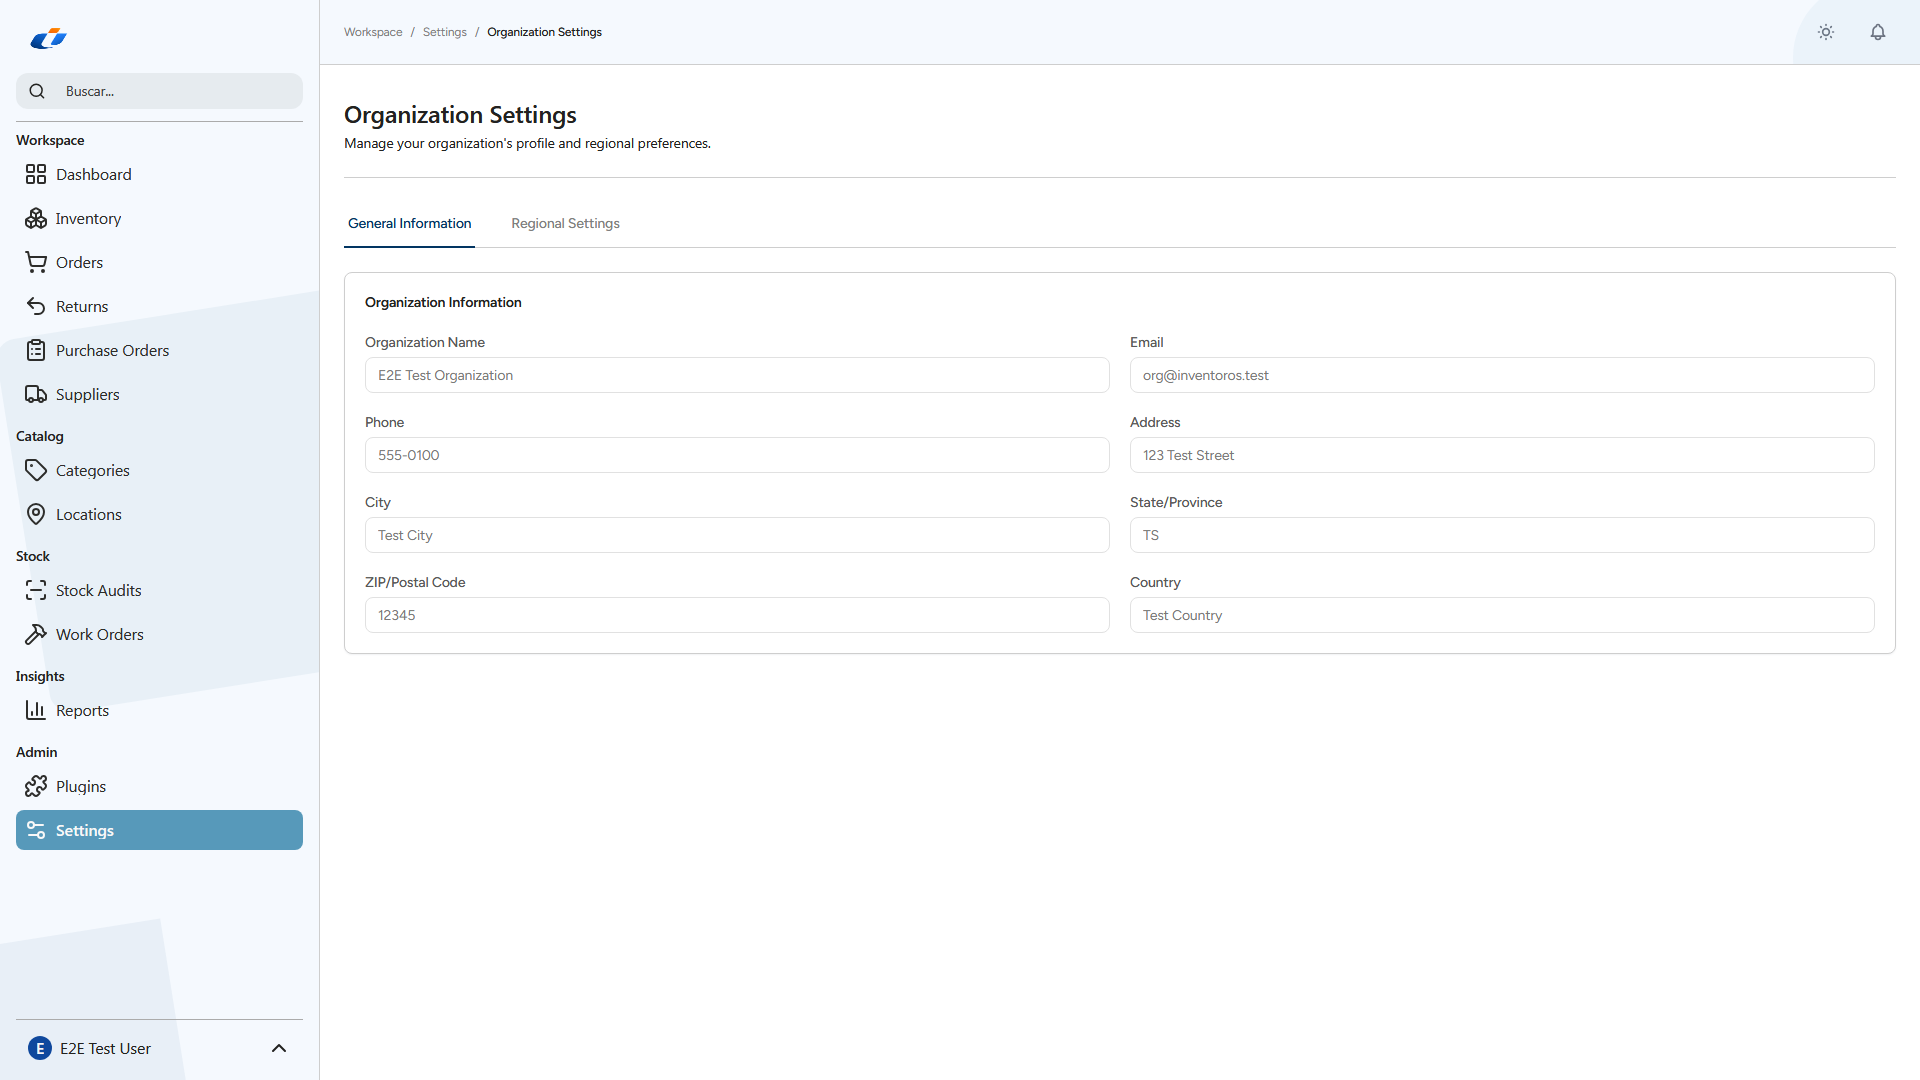
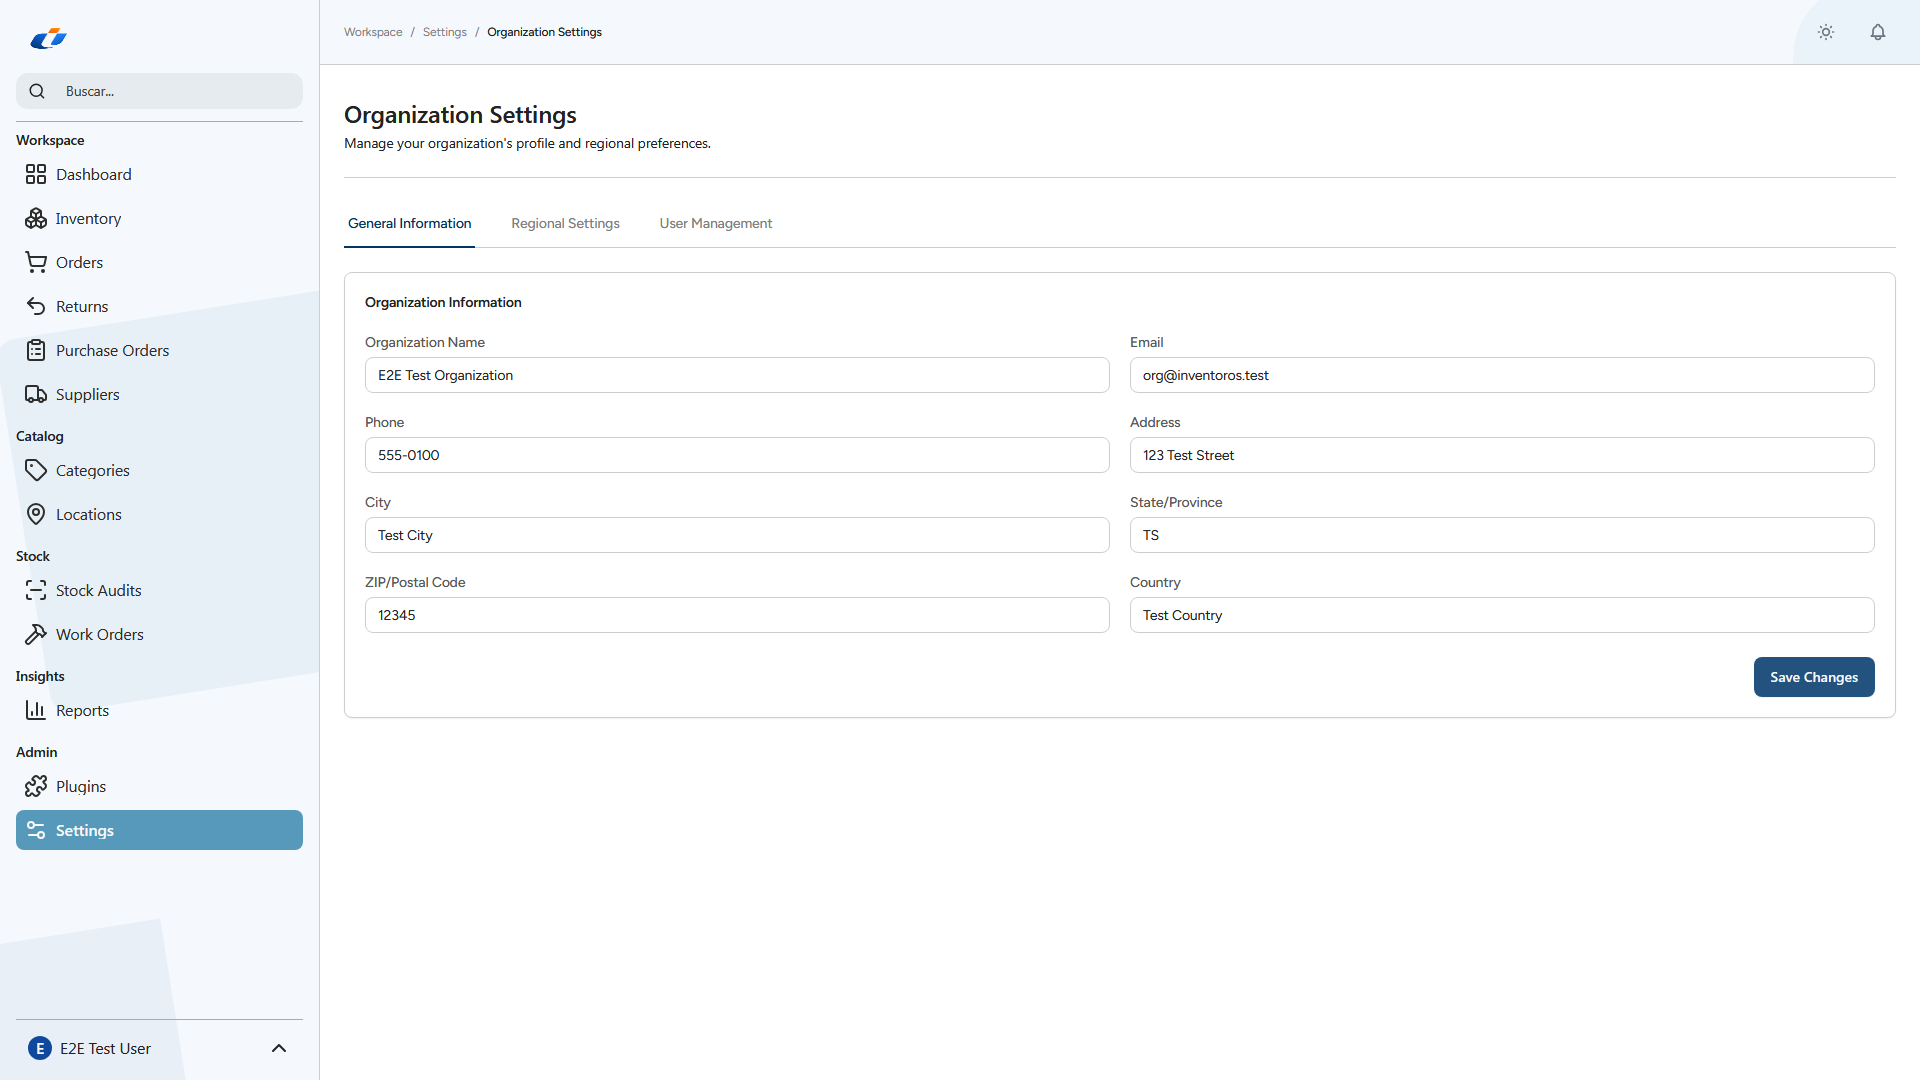
fix(ux): A1 admin org-settings enabled + UXF-03/04/05
A1 (P0): accessor is_admin no serializa; controller expone isAdmin y el
Vue lo usa con fallback. Test: test_is_admin_prop_reaches_the_vue_page.
Verificado live: 12 campos enabled + Save visible para admin.

UXF-03: bulk delete con modal Zellia dedicado (título con contador,
acción irreversible declarada, foco de dialog nativo) — sin confirm().
Verificado live: modal con Cancelar/Eliminar N.

UXF-04: barra de progreso Inertia delay 0 + color primary.700 y
skeleton shimmer en stats del Dashboard mientras carga.

UXF-05: tabs de Settings/Account con overflow-x auto y flex-shrink-0;
a 320x800 scrollWidth=320 — reflow 1.4.10 pasa.

Suites: phpunit 1414 passed (+1 nuevo test), playwright 55 passed.

diff --git a/resources/js/Pages/Products/Index.vue b/resources/js/Pages/Products/Index.vue
@@ -1,5 +1,6 @@
 <script setup>
 import AppLayout from '@/Layouts/AppLayout.vue';
+import Modal from '@/Components/Modal.vue';
 import PluginSlot from '@/Components/PluginSlot.vue';
 import PageHeader from '@/Components/ui/PageHeader.vue';
 import Card from '@/Components/ui/Card.vue';
@@ -37,6 +38,8 @@ const selectAll = ref(false);
 
 // Bulk operations state
 const showBulkCategoryModal = ref(false);
+// UXF-03: confirmación dedicada (no confirm() nativo) — foco capturado + Escape
+const showBulkDeleteModal = ref(false);
 const showBulkPriceModal = ref(false);
 const bulkCategoryId = ref('');
 const bulkPriceType = ref('percentage');
@@ -134,11 +137,15 @@ const deleteProduct = (product) => {
 
 const isLowStock = (product) => product.stock <= product.min_stock;
 
+const requestBulkDelete = () => {
+    if (selectedProducts.value.length === 0) return;
+    showBulkDeleteModal.value = true;
+};
+
 const bulkDelete = () => {
-    if (!confirm(`Are you sure you want to delete ${selectedProducts.value.length} product(s)? This action cannot be undone.`)) return;
     bulkProcessing.value = true;
     router.post(route('products.bulk.delete'), { ids: selectedProducts.value }, {
-        onSuccess: () => { selectedProducts.value = []; selectAll.value = false; bulkProcessing.value = false; },
+        onSuccess: () => { selectedProducts.value = []; selectAll.value = false; bulkProcessing.value = false; showBulkDeleteModal.value = false; },
         onError: () => { bulkProcessing.value = false; },
     });
 };
@@ -263,7 +270,7 @@ const thClass =
                 <Button variant="secondary" size="sm" :disabled="bulkProcessing" @click="showBulkCategoryModal = true">Change category</Button>
                 <Button variant="secondary" size="sm" :disabled="bulkProcessing" @click="showBulkPriceModal = true">Adjust price</Button>
                 <Button variant="secondary" size="sm" :disabled="bulkProcessing" @click="bulkExport">Export</Button>
-                <Button variant="danger" size="sm" :disabled="bulkProcessing" @click="bulkDelete"><Trash2 :size="14" />Delete</Button>
+                <Button variant="danger" size="sm" :disabled="bulkProcessing" @click="requestBulkDelete"><Trash2 :size="14" />Delete</Button>
             </div>
         </div>
 
@@ -413,5 +420,24 @@ const thClass =
 
         <!-- Barcode Scanner Modal -->
         <BarcodeScannerModal :show="showScannerModal" @close="closeScanner" @product-found="handleProductFound" />
+
+        <!-- UXF-03: confirmación de bulk delete (2 pasos, foco capturado por Modal.vue) -->
+        <Modal :show="showBulkDeleteModal" max-width="md" @close="showBulkDeleteModal = false">
+            <div class="p-6">
+                <h2 class="zellia-headline-2 zellia-w-semibold text-text-primary">
+                    {{ $t('common.delete', 'Eliminar') }} {{ selectedProducts.length }}
+                    {{ selectedProducts.length === 1 ? 'producto' : 'productos' }}?
+                </h2>
+                <p class="zellia-body-1 text-text-secondary mt-2">
+                    Esta acción no se puede deshacer.
+                </p>
+                <div class="mt-6 flex justify-end gap-2">
+                    <Button variant="outline" @click="showBulkDeleteModal = false">Cancelar</Button>
+                    <Button variant="danger" :disabled="bulkProcessing" @click="bulkDelete">
+                        Eliminar {{ selectedProducts.length }}
+                    </Button>
+                </div>
+            </div>
+        </Modal>
     </AppLayout>
 </template>

diff --git a/resources/js/Pages/Settings/Account/Index.vue b/resources/js/Pages/Settings/Account/Index.vue
@@ -109,12 +109,14 @@ const toggles = [
         <PageHeader :title="t('settings.account.title')" description="Manage your profile, password, notifications, and preferences." />
 
         <!-- Tabs -->
+        <!-- UXF-05: nav de pestañas con overflow-x auto; en 320px (reflow WCAG 1.4.10)
+             las pestañas hacen scroll horizontal en su propio carril sin desbordar la página -->
         <div class="mt-6 border-b border-border-subtle">
-            <nav class="-mb-px flex gap-8">
+            <nav class="-mb-px flex gap-8 overflow-x-auto ds-scroll" style="scrollbar-width: thin">
                 <button
                     @click="activeTab = 'profile'"
                     :class="[
-                        'border-b-2 px-1 py-3 text-sm font-medium transition-colors',
+                        'flex-shrink-0 border-b-2 px-1 py-3 text-sm font-medium transition-colors',
                         activeTab === 'profile'
                             ? 'border-brand text-brand'
                             : 'border-transparent text-text-tertiary hover:border-border-strong hover:text-text-secondary'
@@ -125,7 +127,7 @@ const toggles = [
                 <button
                     @click="activeTab = 'password'"
                     :class="[
-                        'border-b-2 px-1 py-3 text-sm font-medium transition-colors',
+                        'flex-shrink-0 border-b-2 px-1 py-3 text-sm font-medium transition-colors',
                         activeTab === 'password'
                             ? 'border-brand text-brand'
                             : 'border-transparent text-text-tertiary hover:border-border-strong hover:text-text-secondary'
@@ -136,7 +138,7 @@ const toggles = [
                 <button
                     @click="activeTab = 'notifications'"
                     :class="[
-                        'border-b-2 px-1 py-3 text-sm font-medium transition-colors',
+                        'flex-shrink-0 border-b-2 px-1 py-3 text-sm font-medium transition-colors',
                         activeTab === 'notifications'
                             ? 'border-brand text-brand'
                             : 'border-transparent text-text-tertiary hover:border-border-strong hover:text-text-secondary'
@@ -147,7 +149,7 @@ const toggles = [
                 <button
                     @click="activeTab = 'preferences'"
                     :class="[
-                        'border-b-2 px-1 py-3 text-sm font-medium transition-colors',
+                        'flex-shrink-0 border-b-2 px-1 py-3 text-sm font-medium transition-colors',
                         activeTab === 'preferences'
                             ? 'border-brand text-brand'
                             : 'border-transparent text-text-tertiary hover:border-border-strong hover:text-text-secondary'

diff --git a/resources/css/zellia.css b/resources/css/zellia.css
@@ -659,7 +659,13 @@
 }
 .dark .zellia-sidebar__send { background: var(--zellia-color-neutral-700); color: var(--zellia-color-neutral-100); }
 
-/* Navegación principal: FILL/FILL, gap 8, grupos con gap 4 (§2.6) */
+/* Navegación principal: FILL/FILL, gap 8, grupos con gap 4 (§2.6)
+   UXF-01: cuando el nav desborda (16+ items), los últimos ítems quedan a
+   un scroll de ~20px. Se conserva el scroll (spec §2.6 contempla que la
+   navegación crezca), y se garantiza que el último ítem NUCA quede cortado
+   a medias: scroll-padding-bottom deja un respiro de 40px. */
+
+
 .zellia-sidebar__main {
   flex: 1 1 auto;
   display: flex;
@@ -677,7 +683,15 @@
   overflow-y: auto;
   flex: 1 1 auto;
   min-height: 0;
+  /* UXF-01: el último ítem nunca queda a medio cortar en el corte del viewport */
+  scroll-snap-type: y proximity;
+  scroll-padding-bottom: var(--zellia-space-40);
+  padding-bottom: var(--zellia-space-8);
 }
+/* Última sección admite colapso con un click en el título (accesible) */
+.zellia-sidebar__group:last-child > .zellia-sidebar__group-title { cursor: pointer; }
+.zellia-sidebar__group:last-child.is-collapsed .zellia-sidebar__item { display: none; }
+.zellia-sidebar__group:last-child.is-collapsed::after { content: "+" !important; margin-left: auto; }
 .zellia-sidebar__group {
   display: flex;
   flex-direction: column;
@@ -759,3 +773,29 @@
 .zellia-btn-spinner { width: 16px; height: 16px; flex: 0 0 auto; animation: zellia-spin 1s linear infinite; }
 @keyframes zellia-spin { to { transform: rotate(360deg); } }
 @media (prefers-reduced-motion: reduce) { .zellia-btn-spinner { animation: none; } }
+
+/* ============================================================
+   CAPA 3 — Skeleton de carga (UXF-04): feedback < 400 ms al navegar.
+   Bloques con shimmer sutil, canvas y radius del sistema.
+   ============================================================ */
+.zellia-skeleton-shim {
+  background: linear-gradient(90deg,
+    var(--surface-raised) 25%,
+    var(--surface-overlay) 50%,
+    var(--surface-raised) 75%);
+  background-size: 200% 100%;
+  animation: zellia-shimmer 1.4s ease-out infinite;
+  border-radius: var(--zellia-radius-md);
+}
+.dark .zellia-skeleton-shim {
+  background: linear-gradient(90deg,
+    var(--surface-raised) 25%,
+    var(--surface-overlay) 50%,
+    var(--surface-raised) 75%);
+  background-size: 200% 100%;
+  animation: zellia-shimmer 1.4s ease-out infinite;
+}
+@keyframes zellia-shimmer { to { background-position: -200% 0; } }
+@media (prefers-reduced-motion: reduce) {
+  .zellia-skeleton-shim { animation: none; }
+}

diff --git a/resources/js/Pages/Settings/Organization/Index.vue b/resources/js/Pages/Settings/Organization/Index.vue
@@ -4,13 +4,15 @@ import PageHeader from '@/Components/ui/PageHeader.vue';
 import Card from '@/Components/ui/Card.vue';
 import Button from '@/Components/ui/Button.vue';
 import { Head, Link, useForm } from '@inertiajs/vue3';
-import { ref } from 'vue';
+import { ref, computed } from 'vue';
 import { Users } from 'lucide-vue-next';
 
 import { useI18n } from 'vue-i18n';
 const props = defineProps({
     organization: Object,
     user: Object,
+    // Booleana computada en el controller (el accessor del modelo no serializa)
+    isAdmin: { type: Boolean, default: false },
 });
 
 
@@ -49,7 +51,7 @@ const submitRegional = () => {
     });
 };
 
-const isAdmin = props.user.is_admin;
+const isAdmin = computed(() => props.isAdmin || Boolean(props.user?.is_admin));
 
 const fieldLabel = 'mb-1 block text-sm font-medium text-text-secondary';
 const fieldInput = 'h-9 w-full rounded-md border border-border-subtle bg-surface-canvas px-3 text-sm text-text-primary placeholder:text-text-tertiary ds-focus-ring disabled:cursor-not-allowed disabled:opacity-60';

diff --git a/resources/js/Pages/Dashboard.vue b/resources/js/Pages/Dashboard.vue
@@ -152,7 +152,15 @@ const secondaryStats = () => [
         <PluginSlot slot="before-stats" :components="pluginComponents?.beforeStats" />
 
         <!-- Primary stats -->
+        <!-- UXF-04: skeleton visible mientras llega la página (feedback < 400ms) -->
         <section v-if="widgets.stats_overview" class="mt-6 grid grid-cols-1 gap-3 sm:grid-cols-2 xl:grid-cols-4">
+            <template v-if="stats.totalProducts === undefined">
+                <div v-for="i in 4" :key="'sk' + i" class="p-4 border border-border-subtle rounded-lg bg-surface-raised">
+                    <div class="zellia-skeleton-shim h-3 w-24" />
+                    <div class="zellia-skeleton-shim h-7 w-32 mt-3" />
+                    <div class="zellia-skeleton-shim h-2 w-20 mt-2" />
+                </div>
+            </template>
             <StatTile
                 v-if="stats.totalProducts !== undefined"
                 :label="t('dashboard.totalProducts')"

diff --git a/resources/js/app.js b/resources/js/app.js
@@ -70,6 +70,10 @@ createInertiaApp({
             .mount(el);
     },
     progress: {
-        color: '#4B5563',
+        // UXF-04 (scorecard): feedback < 400 ms. Barra visible inmediatamente
+        // al navegar (delay 0) y color navy de Zellia primary.700.
+        color: '#23527F',
+        delay: 0,
+        showSpinner: false,
     },
 });

diff --git a/tests/Feature/OrganizationSettingsControllerTest.php b/tests/Feature/OrganizationSettingsControllerTest.php
@@ -107,7 +107,23 @@ class OrganizationSettingsControllerTest extends TestCase
             ->component('Settings/Organization/Index')
             ->has('organization')
             ->has('user')
+            ->where('isAdmin', true)
         );
+    }
+
+    /**
+     * A1 (docs/audits/fase-0-baseline.md): el accessor User::getIsAdminAttribute()
+     * no serializa a los props de Inertia, así que props.user.is_admin llegaba
+     * vacío al Vue y la pantalla pintaba los 8 campos disabled incluso para
+     * el admin. El controller ahora expone 'isAdmin' como prop booleana.
+     */
+    public function test_is_admin_prop_reaches_the_vue_page(): void
+    {
+        // Solo admin (el member recibe 403 por permisos — cubierto en el otro test)
+        $this->actingAs($this->admin)
+            ->get(route('settings.organization.index'))
+            ->assertInertia(fn ($page) => $page
+                ->where('isAdmin', true));
     }
 
     public function test_member_cannot_view_organization_settings_without_permission(): void

diff --git a/app/Http/Controllers/Admin/OrganizationSettingsController.php b/app/Http/Controllers/Admin/OrganizationSettingsController.php
@@ -35,6 +35,11 @@ class OrganizationSettingsController extends Controller
         return Inertia::render('Settings/Organization/Index', [
             'organization' => $organization,
             'user' => $user,
+            // accessor getIsAdminAttribute() NO serializa a JSON/Inertia props —
+            // el Vue hace props.user.is_admin && quedaba siempre falsy y pintaba
+            // los 8 campos disabled incluso para el admin (hallazgo A1, Fase 0).
+            // Se computa aquí explícitamente como prop booleana.
+            'isAdmin' => $user->is_admin,
         ]);
     }
 
